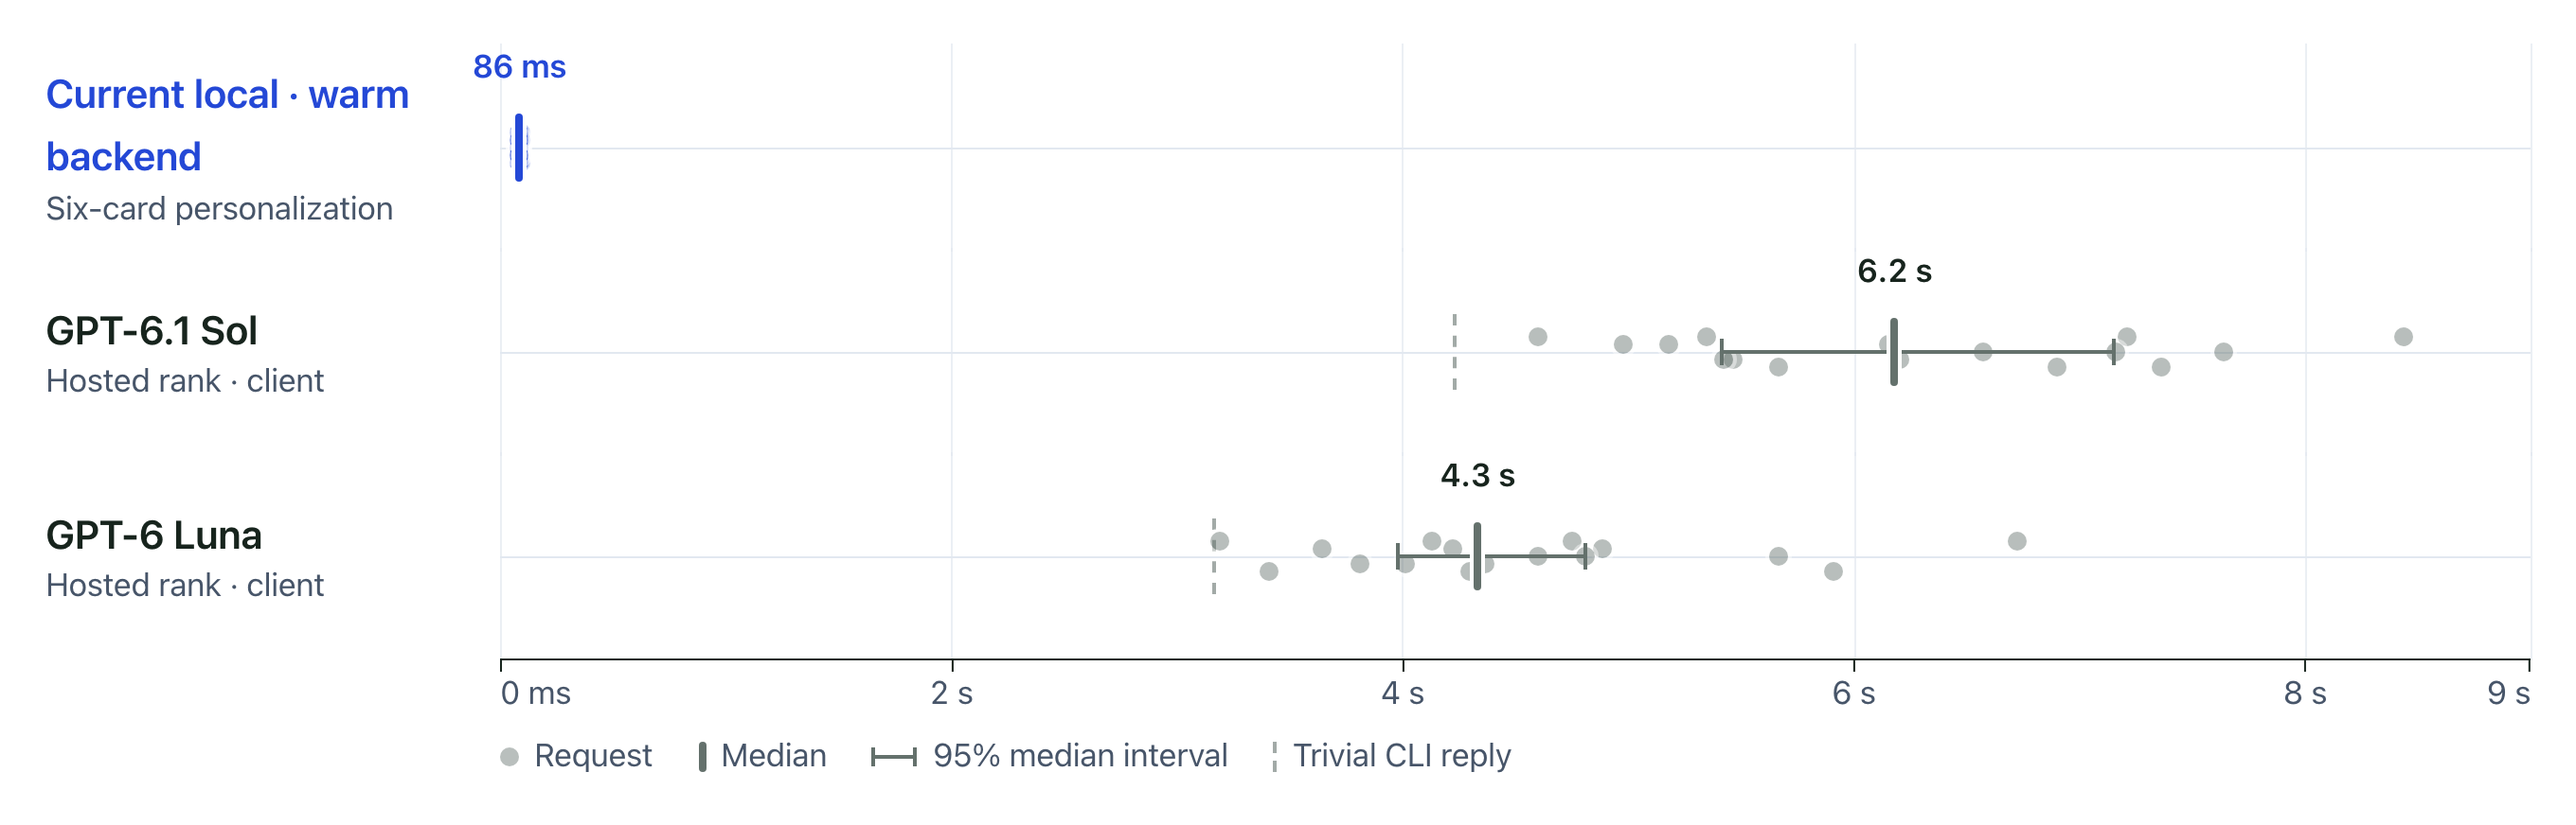
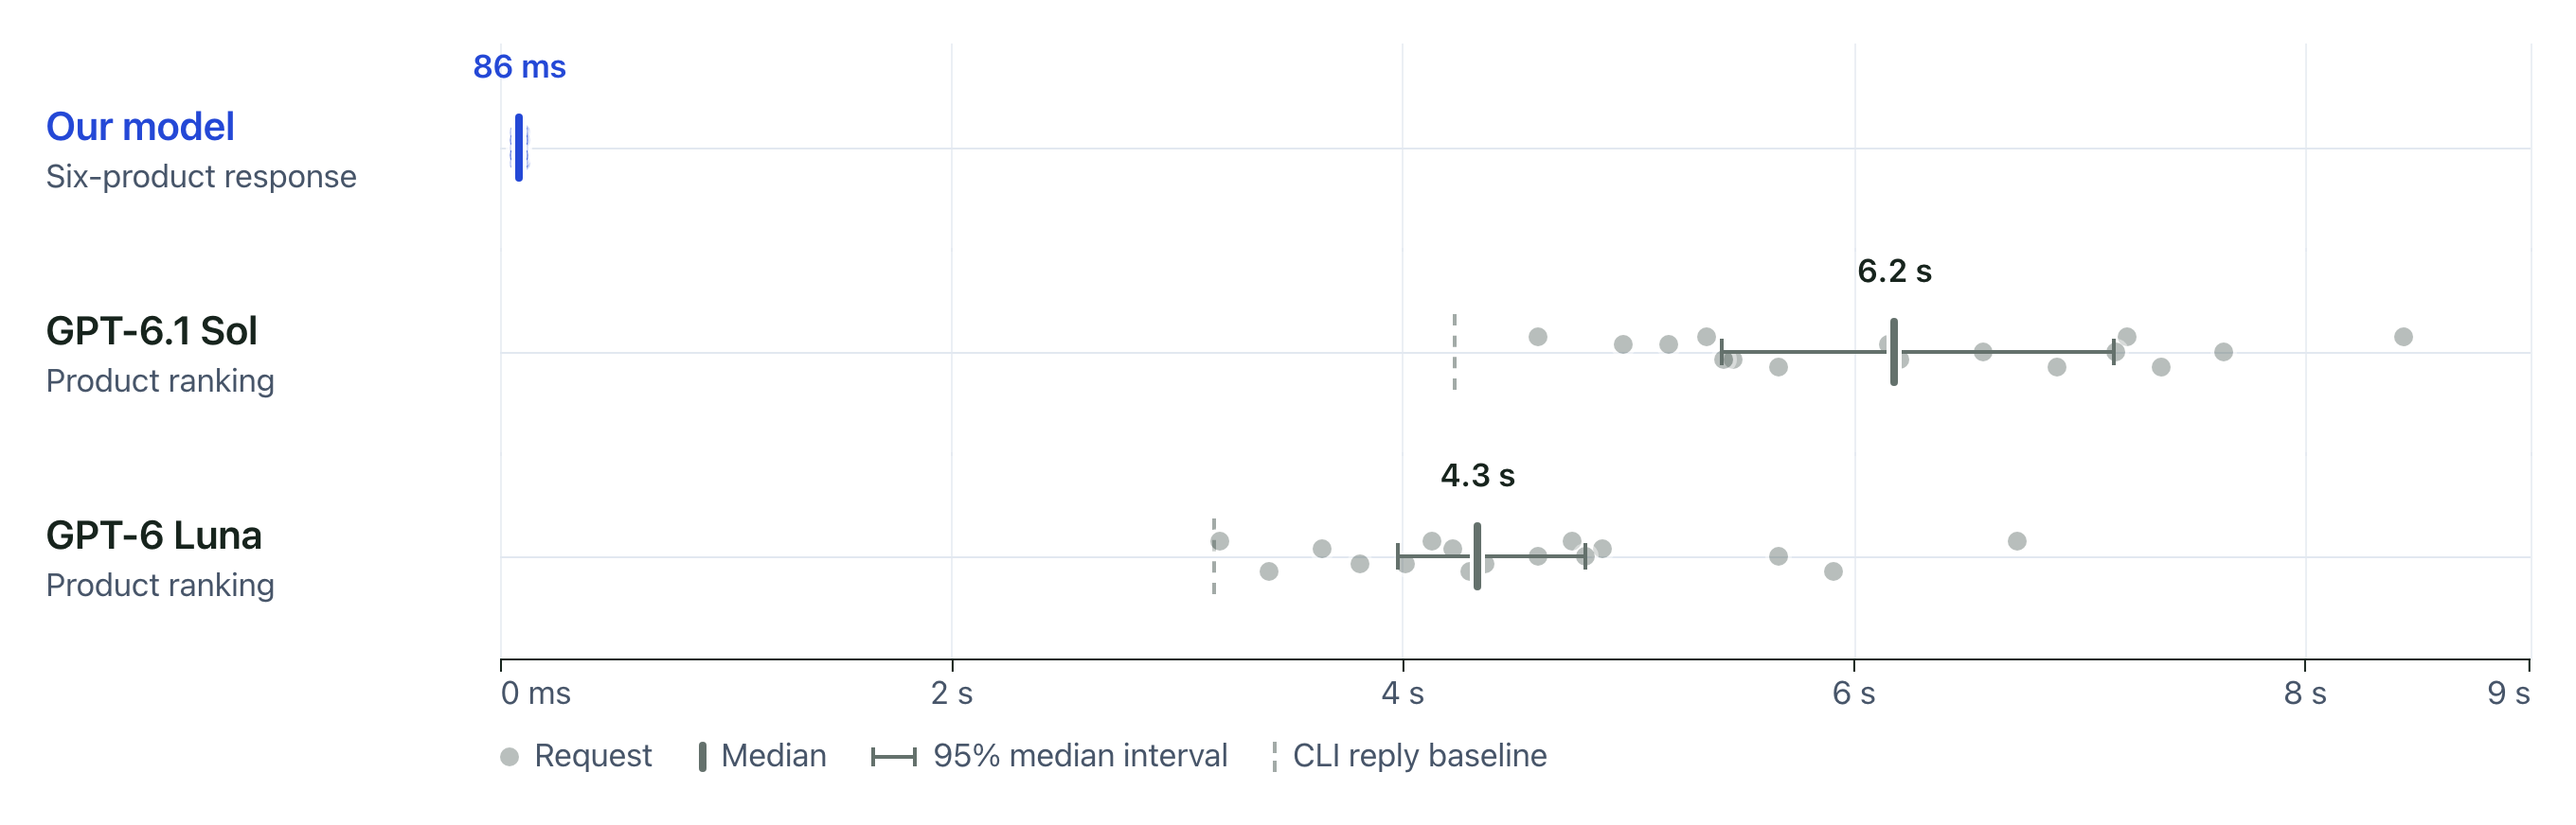
Clarify project presentation and reader-facing figure labels

diff --git a/README.md b/README.md
@@ -1,72 +1,61 @@
 # Personalization Labs
 
-Personalization Labs is a DubHacks 2026 project that tests personalized storefronts.
-A local model selects products and colors and writes copy from catalog facts.
-AI shoppers browse the resulting pages, and the evaluation compares their shopping
-outcomes with those from the generic store.
+Please note that this repository is an experiment for a hackathon. Some of the info and content may not be exactly correct
 
-![Three demo storefront views showing the initial collection, a relevant item below the first row, and personalized ordering](docs/assets/shopper-sequence.png)
+Personalization Labs turns a shopper's request into a personalized product page.
+It selects products and colors from a store's catalog, then generates titles,
+badges and descriptions from the selected product facts.
 
-Figure 1. The demo store before and after personalization: (a) the initial
-collection, (b) the blanket below the first row, and (c) the blanket ranked first.
+Frozen Qwen3.5-9B features feed trained heads for product selection, color choice
+and parallel copy generation. Built for DubHacks 2026, the project includes a
+working storefront and AI shoppers that evaluate it from screenshots.
 
-## The results
+![Generic browsing and personalized product ordering in the demo storefront](docs/assets/shopper-sequence.png)
 
-| Result | What we measured |
+Figure 1. The demo storefront: (a) the initial collection, (b) a relevant blanket
+below the first row, and (c) the blanket ranked first after personalization.
+
+## Results
+
+| Result | Measurement |
 | --- | --- |
-| **+3.78% merchandise value per session** | **$42.35 → $43.95** in a synthetic benchmark: 60 paired scenarios, 120 assigned sessions. |
-| **86 ms warm personalization** | **85.5 ms median** backend time across 10 six-card requests, with warm input encoding and fresh ranking/copy on every request. |
-| **139 ms to visible personalized products** | **138.8 ms median** to three fully visible cards with decoded images across 10 loaded-shop profile switches. |
-| **35 products · 105 color variants** | The current demo selects real catalog variants and produces 20 fresh factual fields for a six-card response. |
-| **29/32 correct first choices** | The earlier balanced ranker audit improved from **14/32**, with the target present in the top six for **32/32** requests. |
+| **+3.78% value per session** | **$42.35 → $43.95** in simulated merchandise value across 60 paired shopping scenarios (120 sessions). |
+| **86 ms median response** | Six products with fresh ranking and generated copy, using warm input encoding. |
 
-The value benchmark used the frozen 16-product store. The speed measurements used
-the expanded 35-product demo; warm backend timing excludes startup, network,
-browser and images. [Sources, methodology and full outcomes](docs/RESULTS.md).
+These results come from separate synthetic shopper and serving benchmarks.
+[Measurements and methodology](docs/RESULTS.md).
 
-## Request latency
+![Request latency: Our model at 86 ms, GPT-6.1 Sol at 6.2 s, and GPT-6 Luna at 4.3 s](docs/assets/latency-figure.png)
 
-![Request latency plot: warm local backend median 86 ms; hosted ranking client medians 6.2 s and 4.3 s](docs/assets/latency-figure.png)
+Figure 2. Our model serves six products with warm input encoding (backend time);
+hosted models perform product ranking (client time).
 
-Figure 2. Request latency for 10 warm local six-card responses and 16 ranking
-requests per hosted model. Bars mark medians and 95% bootstrap intervals; dashed
-lines mark trivial CLI replies. The local clock measures backend work; the hosted
-clock measures ranking through the client.
-[Data and timing scope](docs/RESULTS.md#speed-graph).
+## How it works
 
-## System overview
+The selection heads choose products and colors. The text head predicts word slots
+for titles, badges and descriptions in parallel, conditioned on the selected
+catalog facts. Input features can be reused; every request computes fresh scores,
+selections and text.
 
-Fieldwork is the demo store. It has product galleries, color controls, a cart and
-simulated checkout. AI shoppers use screenshots to browse, search and choose
-products in both the generic and personalized versions.
+![Qwen3.5-9B feeds product selection, catalog facts and parallel text generation](docs/assets/architecture-figure.svg)
 
-The evaluation records suitable purchases, abstentions, shopper actions and
-merchandise value. Saved session evidence lets you inspect individual outcomes;
-the dashboard compares immutable experiment snapshots across runs. Product
-selection enforces budgets and supported hard constraints. Copy uses facts from
-the selected catalog items.
+Figure 3. Product selection determines which catalog facts the text head receives.
+Budgets and supported hard constraints restrict selection; generated descriptions
+must match those facts.
 
-## Model architecture
+The Fieldwork demo store has 35 products and 105 color variants, with galleries,
+a cart and simulated checkout. AI shoppers browse both generic and personalized
+versions using screenshots and visible controls. The evaluation records purchases,
+abstentions, actions and merchandise value; the dashboard displays the results
+with saved session evidence.
 
-![Architecture diagram: frozen Qwen to learned selection to selected fact rows to parallel copy](docs/assets/architecture-figure.svg)
+[Model and serving details](experiments/ranker/pretrained/STORE_EXPANDED_ENGINE_V1.md) ·
+[Shopper evaluation](apps/runner/SHOPPER_COHORT.md)
 
-Figure 3. The model selects products and colors, then predicts copy from their
-catalog facts.
+## Run locally
 
-Qwen3.5-9B stays frozen and supplies reusable input features. Small trained heads
-score products, choose colors and predict the words for titles, badges and short
-copy in parallel. Warm requests reuse exact input features, but compute new scores,
-selections and words on every request. Six-card responses therefore use fresh copy
-without generating each word in an autoregressive sequence.
-
-[Serving architecture](experiments/ranker/pretrained/STORE_EXPANDED_ENGINE_V1.md) ·
-[Current measurements](experiments/ranker/pretrained/expanded_store_results/v1/CURRENT_LIVE_SUMMARY.json) ·
-[Experiment history](docs/DEVELOPMENT.md#measured-status)
-
-## Run the demo
-
-Use Node 24.11+ in the 24.x line or Node 26+, pnpm 12.5.1, and Go 1.24+ with CGO
-and a C compiler. The default shop uses SQLite and requires no model weights or API key.
+Requires Node 24.11+ in the 24.x line or Node 26+, pnpm 12.5.1, Go 1.24+ with CGO,
+and a C compiler.
 
 ```sh
 pnpm install
@@ -74,33 +63,15 @@ pnpm seed
 pnpm dev
 ```
 
-| App | Address |
-| --- | --- |
-| Presentation dashboard | <http://dubhacks.localhost:1356> |
-| Fieldwork storefront | <http://shop.dubhacks.localhost:1356> |
-| Go API | <http://api.dubhacks.localhost:1356> |
+Open the [storefront](http://shop.dubhacks.localhost:1356) or
+[presentation](http://dubhacks.localhost:1356). The default shop runs without model
+weights. Personalized serving needs the local checkpoints, and the results deck
+needs a Tiger connection. [Setup instructions](docs/DEVELOPMENT.md#run-the-default-demo).
 
-The results deck needs a configured Tiger results connection. On the configured
-Apple silicon machine, `pnpm dev:personalized:demo` starts the expanded local-model
-demo at <http://127.0.0.1:4313> using the existing local weights and checkpoints. [Full setup and local prerequisites](docs/DEVELOPMENT.md#run-the-default-demo).
+## Code
 
-Use the arrow keys to move through the presentation. The deck covers shopper
-outcomes, latency and the learning loop. The final evidence slide and
-[results guide](docs/RESULTS.md) link to the underlying measurements.
-
-## Explore the project
-
-| Area | Code and documentation |
-| --- | --- |
-| Storefront | [React shop](apps/storefront/) |
-| Presentation | [React slide deck](apps/web/src/CohortPresentation.tsx) |
-| Experiment API | [Go API](apps/api/README.md) |
-| AI shopper evaluation | [Runner and protocol](apps/runner/SHOPPER_COHORT.md) |
-| Local model | [Native experiments and serving](experiments/ranker/pretrained/) |
-| Setup, audits and historical measurements | [Development guide](docs/DEVELOPMENT.md) |
-| Product direction | [Vision](docs/project/VISION.md) |
-
-Repository: [quick007/personalization-labs](https://github.com/quick007/personalization-labs).
+[Storefront](apps/storefront/) · [Model](experiments/ranker/pretrained/) ·
+[Presentation](apps/web/src/CohortPresentation.tsx) · [Experiment API](apps/api/README.md)
 
 ## License
 

diff --git a/docs/RESULTS.md b/docs/RESULTS.md
@@ -77,7 +77,7 @@ Sources: [expanded serving contract](../experiments/ranker/pretrained/STORE_EXPA
 
 ## Speed graph
 
-The README retains the actual exported presentation graph: **86 ms** for warm
+The README renders the presentation plot with reader-facing labels: **86 ms** for warm
 local six-card backend personalization, alongside approximately **6.2 s** and
 **4.3 s** medians for earlier hosted ranking tasks through the Codex client.
 Each series is measured within its own request set and timing boundary. The chart
@@ -103,13 +103,15 @@ Sources: [scenario definition and pinned evidence](../apps/web/src/fieldwork/ill
 The README uses compact figures with white backgrounds and captions outside the
 image. The latency figure renders the existing `LatencyChart` and `LatencyRow`
 components with the original raw samples, seeded bootstrap, linear axis and
-markers. Only its export typography, colors and surrounding frame change.
+markers. Its export typography, colors and surrounding frame change. Labels use "Our model",
+"Six-product response" and "Product ranking"; the caption identifies backend and
+client timing scopes. Numerical samples, medians and intervals are unchanged.
 
 | README figure | Source |
 | --- | --- |
 | [Storefront sequence](assets/shopper-sequence.png) | The existing public `browse.jpg`, `stuck.jpg` and `fit.jpg` captures, with panel letters |
 | [Latency plot](assets/latency-figure.png) | Existing chart components and checked-in local/hosted measurements |
-| [Architecture](assets/architecture-figure.svg) | The four stage labels from `ModelSlide.tsx`, redrawn as a compact vector diagram |
+| [Architecture](assets/architecture-figure.svg) | The four stages from `ModelSlide.tsx`, redrawn with reader-facing labels as a compact vector diagram |
 
 [Figure receipt](assets/figure-export.json) records source hashes, exact medians,
 95% median intervals, sample counts and output hashes. Reproduce the exports with:
